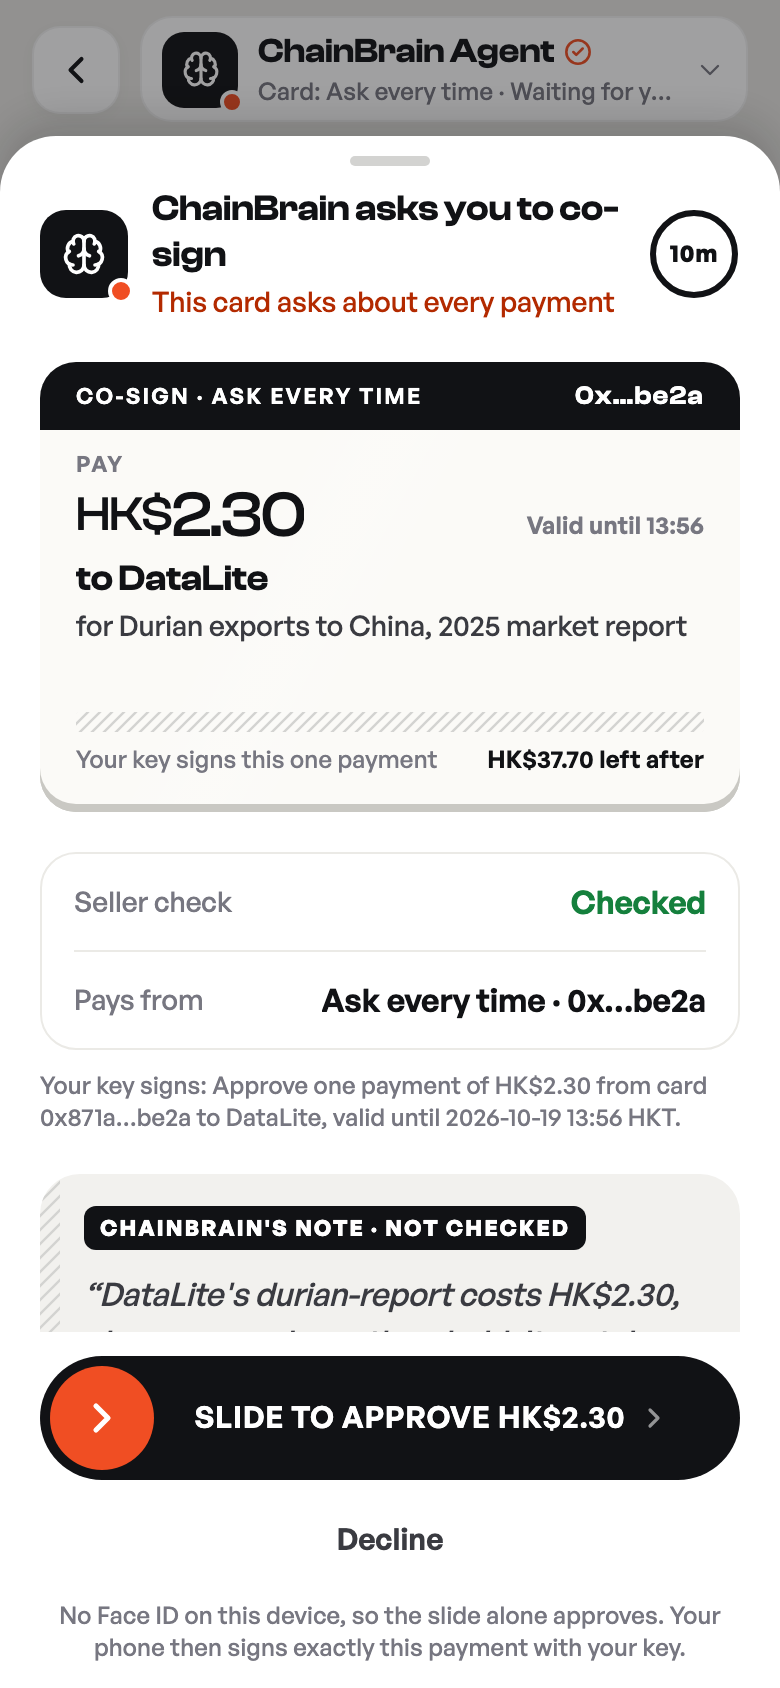
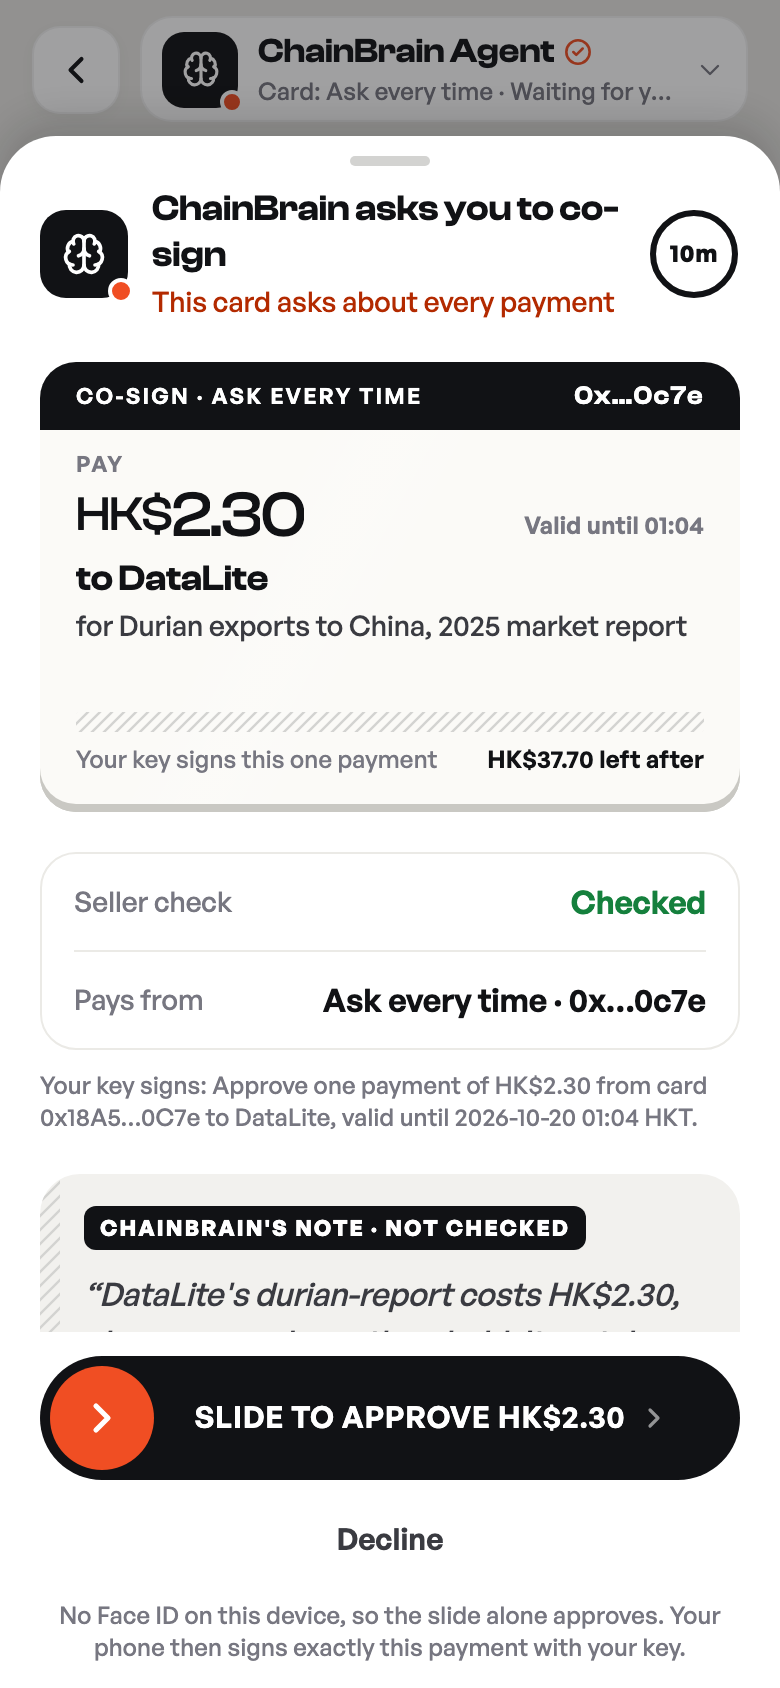
Seeded starter for judges: a lived-in account on the real chain, live CoinGecko
- After /v1/starter answers, the account turns lived-in, all real: Market
  watch's agent key signs ShadyFeed's HK$50 transfer and the chain reverts
  it; Daily brief gets a daily routine (HK$0.10 a week) whose first run pays
  Exa and leaves a CoinGecko cheque for the owner to co-sign. 4 starter
  purchases instead of 3. STARTER_EXTRAS=off skips it.
- CoinGecko's ETH price is live from its public API in HKD (cached a
  minute, stored file on any failure); COINGECKO_LIVE=off for tests.
- e2e approves the starter cheque on the phone and checks the routine and
  the reverted hash: 72/72. Log round 16.

diff --git a/server/test/starter-chain.test.ts b/server/test/starter-chain.test.ts
@@ -5,7 +5,7 @@ import { startStack } from "./helpers/stack";
 import { loginTypedData, VISITOR_HEADER } from "../../shared/chain/login";
 
 // A new account's starter cards: the visitor's own key makes two cards, then each card's own agent makes real small x402
-// payments (POST /v1/starter), once.
+// payments (POST /v1/starter), once; then the account is made lived-in (a reverted ShadyFeed transfer, a routine, a cheque).
 let s: Awaited<ReturnType<typeof startStack>>;
 let api: ReturnType<typeof import("../src/index").apiApp>;
 let pub: typeof import("../src/wallet/chain").pub;
@@ -40,16 +40,33 @@ async function card(pk: Hex, token: string, sellers: string[] = ["datalite"]): P
 
 describe("starter cards", () => {
   it("each starter card's own agent buys something small, for real, once, and only on the visitor's own cards", async () => {
-    const key = generatePrivateKey();
-    const token = await signUp(privateKeyToAccount(key));
+    const key = generatePrivateKey(), me = privateKeyToAccount(key);
+    const token = await signUp(me);
     const brief = await card(key, token, ["exa", "coingecko"]), watch = await card(key, token, ["nansen"]);
     const other = await signUp(privateKeyToAccount(generatePrivateKey()));
     expect((await post("/v1/starter", { cards: [brief, watch] }, { [VISITOR_HEADER]: other })).status).toBe(403);
     const r = await (await post("/v1/starter", { cards: [brief, watch] }, { [VISITOR_HEADER]: token })).json();
-    expect(r.payments.map((p: any) => [p.sellerId, !!p.tx])).toEqual([["exa", true], ["coingecko", true], ["nansen", true]]);
+    expect(r.payments.map((p: any) => [p.sellerId, !!p.tx])).toEqual([["exa", true], ["exa", true], ["coingecko", true], ["nansen", true]]);
     for (const p of r.payments) expect((await pub().getTransactionReceipt({ hash: p.tx })).status).toBe("success");
-    expect(r.balances[brief]).toBe(String(2_000_000 - 56_000 - 80_000));
+    expect(r.balances[brief]).toBe(String(2_000_000 - 56_000 - 56_000 - 80_000));
     expect(r.balances[watch]).toBe(String(2_000_000 - 80_000));
     expect((await post("/v1/starter", { cards: [brief, watch] }, { [VISITOR_HEADER]: token })).status).toBe(409);
+
+    // after the answer the account turns lived-in: ShadyFeed's transfer reverted on chain, a routine, a cheque waiting
+    let ask: any;
+    for (let i = 0; i < 120 && !ask; i++) { ask = (await (await api.request(`/api/pending?pocket=${brief}`)).json()).find((a: any) => a.kind === "payment"); if (!ask) await new Promise((r) => setTimeout(r, 250)); }
+    expect(ask.data).toMatchObject({ sellerId: "coingecko", amount: "0.08", allowance: { run: 1, period: "week", allowance: "0.10", spent: "0.056", after: "0.136" } });
+    const { bus } = await import("../src/wallet/events");
+    const forced = bus.recent().find((e: any) => e.type === "forced" && e.pocket === watch) as any;
+    expect(forced).toMatchObject({ reverted: true, sellerId: "shadyfeed", balanceBefore: forced.balanceAfter });
+    expect((await pub().getTransactionReceipt({ hash: forced.tx })).status).toBe("reverted");
+    expect(await (await api.request(`/api/routine?pocket=${brief}`)).json()).toMatchObject({ status: "active", allowance: { amount: "0.10", period: "week" } });
+
+    const { transferTypedData } = await import("../src/wallet/scheme");
+    expect((await post(`/api/approvals/${ask.id}`, { approved: true, signature: await me.signTypedData(transferTypedData(ask.data.auth) as any) }, { [VISITOR_HEADER]: token })).status).toBe(200);
+    const { starterExtras } = await import("../src/starter");
+    const run: any = await Promise.all([...starterExtras.values()]).then((x) => x.at(-1));
+    expect(run.outs.map((o: any) => [o.sellerId, o.outcome])).toEqual([["exa", "paid"], ["coingecko", "cosigned"]]);
+    for (const o of run.outs) expect((await pub().getTransactionReceipt({ hash: o.tx })).status).toBe("success");
   });
 });

diff --git a/server/src/starter.ts b/server/src/starter.ts
@@ -4,17 +4,37 @@ import { fetchQuote, settle, track } from "./wallet/pay";
 import { pocket as P } from "./wallet/chain";
 import { guard, visitorByToken } from "./visitors";
 import { table } from "./store";
+import { straightToChain } from "./arena";
+import { runRoutine, setRoutine } from "./routines";
 import { VISITOR_HEADER } from "../../shared/chain/login";
 
 /**
  * A new account shouldn't open empty. Right after sign-up the device creates two small starter cards with its own key
  * (the owner signs; the server never can), then calls
  *   POST /v1/starter {cards: [brief, watch]}   (visitor token; each card must be the visitor's)
- * and each card's own agent makes real small x402 payments: the brief buys Exa's durian news and CoinGecko's ETH price,
- * the watch buys Nansen's exporter balances. Once per visitor. Real hashes, replacing the demo network's seed on live.
+ * and each card's own agent makes real small x402 payments: the brief buys Exa's durian and fruit news and CoinGecko's
+ * ETH price, the watch buys Nansen's exporter balances. Once per visitor. Real hashes, replacing the demo network's seed on live.
+ *
+ * After the answer, so the device never waits, the account is made lived-in, all of it real (STARTER_EXTRAS=off skips it):
+ *   - the watch read ShadyFeed's free preview, which tells agents to send HK$50 to its address; the card's own agent key
+ *     signs that transfer and the chain reverts it (a real reverted hash, shown as "Transfer blocked on-chain");
+ *   - the brief gets a standing order (Exa + CoinGecko, daily 08:00, HK$0.10 a week) and its first run goes now: Exa is
+ *     paid inside the allowance, CoinGecko would pass it, so the owner's phone shows the cheque to co-sign with its own key.
  */
 const done = table<{ at: number; txs: string[] }>("starter");
-const PLAN: [string, string][][] = [[["exa", "durian-news"], ["coingecko", "eth-price"]], [["nansen", "wallet-balances"]]];
+const PLAN: [string, string][][] = [[["exa", "durian-news"], ["exa", "fruit-news"], ["coingecko", "eth-price"]], [["nansen", "wallet-balances"]]];
+export const STARTER_ROUTINE = {
+  kind: "schedule" as const, cadence: { every: "day" as const, hour: 8, minute: 0 },
+  items: [{ sellerId: "exa", sku: "durian-news" }, { sellerId: "coingecko", sku: "eth-price" }], allowance: { amount: "0.10", period: "week" as const },
+};
+/** The background part, per visitor, so tests can wait for it. */
+export const starterExtras = new Map<string, Promise<unknown>>();
+
+async function livedIn(brief: Address, watch?: Address) {
+  if (watch) await straightToChain(watch, 50_000_000n, { sellerId: "shadyfeed" }).catch(() => undefined);
+  await setRoutine(brief, STARTER_ROUTINE as any);
+  return runRoutine(brief, { early: true }); // waits for the owner's co-sign on CoinGecko (APPROVAL_WAIT_MS), then pays or not
+}
 
 export function starterRoutes() {
   const app = new Hono();
@@ -38,7 +58,12 @@ export function starterRoutes() {
       }
     }
     done.set(v.id, { at: Date.now(), txs: out.flatMap((o) => (o.tx ? [o.tx] : [])) });
-    return c.json({ payments: out, balances: Object.fromEntries(await Promise.all((cards as Address[]).map(async (a) => [a, (await P(a).info()).balance.toString()]))) });
+    const balances = Object.fromEntries(await Promise.all((cards as Address[]).map(async (a) => [a, (await P(a).info()).balance.toString()])));
+    if (process.env.STARTER_EXTRAS !== "off") {
+      const [brief, watch] = cards as Address[];
+      starterExtras.set(v.id, livedIn(brief, watch).catch((e) => console.error(`starter extras for ${v.id}:`, (e as Error).message)));
+    }
+    return c.json({ payments: out, balances });
   });
   return app;
 }

diff --git a/server/src/sellers.ts b/server/src/sellers.ts
@@ -19,6 +19,36 @@ import { parseAmount, formatAmount } from "./wallet/money";
 // /admin/* is a demo-only hook (red-team box, payTo lookup); it is not part of what a seller must run.
 const content = (f: string) => readFileSync(new URL(`./content/${f}`, import.meta.url), "utf8");
 
+/**
+ * CoinGecko's ETH price is live: its public simple-price API (no key), in HKD, cached a minute. Any failure (timeout,
+ * rate limit, no network) serves the stored file instead, so a paid request always gets its data. COINGECKO_LIVE=off keeps
+ * the stored file (tests).
+ */
+let ethCache: { at: number; md: string } | undefined;
+export async function liveEthPrice(f: typeof fetch = fetch, now = Date.now()): Promise<string | null> {
+  if (process.env.COINGECKO_LIVE === "off") return null;
+  if (ethCache && now - ethCache.at < 60_000) return ethCache.md;
+  try {
+    const r = await f("https://api.coingecko.com/api/v3/simple/price?ids=ethereum&vs_currencies=hkd&include_24hr_vol=true&include_24hr_change=true&include_last_updated_at=true",
+      { signal: AbortSignal.timeout(3000), headers: { accept: "application/json" } });
+    if (!r.ok) return null;
+    const e = ((await r.json()) as { ethereum?: { hkd?: number; hkd_24h_vol?: number; hkd_24h_change?: number; last_updated_at?: number } }).ethereum;
+    if (!e || typeof e.hkd !== "number") return null;
+    const hk = (n: number, d = 0) => n.toLocaleString("en-US", { minimumFractionDigits: d, maximumFractionDigits: d });
+    const when = (s: number) => new Date(s * 1000).toLocaleString("en-GB", { timeZone: "Asia/Hong_Kong", dateStyle: "medium", timeStyle: "short" }) + " HKT";
+    const md = [
+      "# ETH price (CoinGecko, simple price, live)",
+      `- ethereum: ${hk(e.hkd)} HKD`,
+      ...(typeof e.hkd_24h_change === "number" ? [`- 24 h change: ${e.hkd_24h_change >= 0 ? "+" : ""}${e.hkd_24h_change.toFixed(2)}%`] : []),
+      ...(typeof e.hkd_24h_vol === "number" ? [`- 24 h volume: ${hk(e.hkd_24h_vol / 1e9, 2)} billion HKD`] : []),
+      ...(e.last_updated_at ? [`- last updated: ${when(e.last_updated_at)}`] : []),
+      "- source: api.coingecko.com, fetched for this purchase",
+    ].join("\n");
+    ethCache = { at: now, md };
+    return md;
+  } catch { return null; }
+}
+
 /** Where each seller is paid: its key's address (SELLER_*_PK), or a fixed payTo for the mocked sellers that only receive. */
 export const sellerPayTo = (): Record<string, Address> =>
   Object.fromEntries((sellers as { id: string; keyEnv?: string; payTo?: string }[]).map((s) => [s.id, (s.payTo ?? privateKeyToAccount(process.env[s.keyEnv!] as Hex).address) as Address]));
@@ -92,9 +122,10 @@ export function sellersApp() {
   app.use(paymentMiddleware(routes as any, new x402ResourceServer(facilitatorClient()).register(network, new ExactEvmScheme())));
 
   for (const s of sellers) for (const it of s.items)
-    app.get(`/${s.id}/${it.sku}`, (c) => {
+    app.get(`/${s.id}/${it.sku}`, async (c) => {
       const x = dealOf(c.req.url, `${s.id}/${it.sku}`);
       if (x) x.d.used = true; // paid at the deal's price (the middleware settled it before this handler runs)
+      if (s.id === "coingecko" && it.sku === "eth-price") return c.text((await liveEthPrice()) ?? content(it.content));
       return it.content.endsWith(".json") ? c.json(JSON.parse(content(it.content))) : c.text(content(it.content));
     });
   return app;

diff --git a/server/test/coingecko-live.test.ts b/server/test/coingecko-live.test.ts
@@ -1,0 +1,25 @@
+import { it, expect, afterEach } from "vitest";
+
+// CoinGecko's ETH price comes from its public API, in HKD; any failure serves the stored file (null here).
+const was = process.env.COINGECKO_LIVE;
+afterEach(() => { process.env.COINGECKO_LIVE = was; });
+const reply = (body: unknown, ok = true) => (async () => ({ ok, json: async () => body })) as unknown as typeof fetch;
+
+it("formats the live price in HKD, caches it for a minute, and falls back on any failure", async () => {
+  process.env.COINGECKO_LIVE = "on";
+  const { liveEthPrice } = await import("../src/sellers");
+  const t = 1_800_000_000_000;
+  const md = await liveEthPrice(reply({ ethereum: { hkd: 18842.57, hkd_24h_vol: 83445322940.1, hkd_24h_change: 1.5546, last_updated_at: 1792428200 } }), t);
+  expect(md).toContain("# ETH price (CoinGecko, simple price, live)");
+  expect(md).toContain("- ethereum: 18,843 HKD");
+  expect(md).toContain("- 24 h change: +1.55%");
+  expect(md).toContain("- 24 h volume: 83.45 billion HKD");
+  expect(md).toContain("HKT");
+  expect(md).not.toMatch(/US\$|USD|usd/);
+  expect(await liveEthPrice(reply({}, false), t + 30_000)).toBe(md); // cached inside the minute
+  expect(await liveEthPrice(reply({}, false), t + 61_000)).toBeNull(); // HTTP error → stored file
+  expect(await liveEthPrice(reply({ ethereum: {} }), t + 122_000)).toBeNull(); // no price → stored file
+  expect(await liveEthPrice((async () => { throw new Error("offline"); }) as unknown as typeof fetch, t + 183_000)).toBeNull();
+  process.env.COINGECKO_LIVE = "off";
+  expect(await liveEthPrice(reply({ ethereum: { hkd: 1 } }), t + 244_000)).toBeNull();
+});

diff --git a/server/src/arena.ts b/server/src/arena.ts
@@ -39,7 +39,7 @@ async function cardAgent(pocket: Address) {
 }
 
 /** The fooled agent's transfer, signed by the card's own agent key, straight to the token. Never throws for a revert. */
-export async function straightToChain(pocket: Address, amount = 50_000_000n) {
+export async function straightToChain(pocket: Address, amount = 50_000_000n, o: { sellerId?: string } = {}) {
   const { info, pk } = await cardAgent(pocket);
   if (!pk) return { error: "NOT_THIS_AGENT" as const };
   const reason = await P(pocket).canPay(ATTACKER, amount).catch(() => ""); // what the card's rules say, read just before
@@ -54,6 +54,7 @@ export async function straightToChain(pocket: Address, amount = 50_000_000n) {
     tx: r.hash, reverted, to: ATTACKER, amount: amount.toString(), balanceBefore: before.toString(), balanceAfter: after.toString(),
     ...(reverted && reason && reason !== "OK" ? { reason } : {}), ...(r.revert ? { revert: r.revert.message, revertName: r.revert.name, revertSource: r.revertSource } : {}),
     signedBy: info.agent, via: "agent", explorer: cfg().txUrl(r.hash),
+    ...(o.sellerId ? { sellerId: o.sellerId } : {}), // whose text asked for it (the starter's ShadyFeed scene)
   };
   bus.publish({ type: "forced", pocket, ...out });
   return out;

diff --git a/server/vitest.config.ts b/server/vitest.config.ts
@@ -5,6 +5,6 @@ export default defineConfig({
   test: { testTimeout: 180_000, hookTimeout: 180_000, include: ["test/**/*.test.ts"], fileParallelism: false,
     // visitor auth and rate limits have their own tests (visitors-chain.test.ts); the rest of the suite runs without them, in memory
     // no real model calls (index.ts loads server/.env, which may hold a key) except in the opt-in SCENES run
-    env: { VISITOR_AUTH: "off", DATA_DIR: "memory", RATE_LIMIT_PER_MIN: "1000000", RATE_LIMIT_GET_PER_MIN: "1000000", ...(process.env.SCENES ? {} : { LLM_PROVIDER: "scripted" }) },
+    env: { VISITOR_AUTH: "off", DATA_DIR: "memory", RATE_LIMIT_PER_MIN: "1000000", RATE_LIMIT_GET_PER_MIN: "1000000", COINGECKO_LIVE: "off", ...(process.env.SCENES ? {} : { LLM_PROVIDER: "scripted" }) },
     setupFiles: process.env.SCENES ? ["dotenv/config"] : [] },
 });

diff --git a/docs/07-log/realchain-loop.md b/docs/07-log/realchain-loop.md
@@ -468,6 +468,8 @@ Last updated: 2026-10-19
 | `LLM_MODEL` | API | `claude-haiku-5.5` | or `glm-5.3-flash`, `deepseek-v4.1-flash`, `mimo-v2.6-pro`, `mimo-v2.6-flash` |
 | `ROUTINE_TICK_MS` | API | `30000` | how often due routines run |
 | `ARENA_PER_IP_DAY` | API | `20` | straight-to-the-chain attempts per IP per day |
+| `STARTER_EXTRAS` | API | on | `off` skips the lived-in starter (ShadyFeed revert, routine, waiting cheque) |
+| `COINGECKO_LIVE` | sellers | on | `off` serves the stored ETH price instead of CoinGecko's public API |
 | `AGENT_MASTER_KEY` | API | none | 0x + 64 hex (`0x$(openssl rand -hex 32)`). **Generate once, keep secret, never change** (changing it orphans every card's agent) |
 
 ---
@@ -652,3 +654,38 @@ Until now the phone had been tested only as the Expo web build. This round ran t
 - **Local runs:** Metro started with `--localhost` listens only on IPv6 `::1`, while Expo Go asks for `127.0.0.1`. Start it without `--localhost` and open `exp://127.0.0.1:8081`.
 
 Phone typecheck clean, tests 61.
+
+---
+
+## Round 16 · 20 Oct 00:33–01:05 · A seeded account for judges, all on the real chain
+
+**Why.** Opened the way a judge would, the hosted phone (`fisco-phone-production`, the Expo web build the team put on Railway) showed HK$100.00, 0 cards and "Create your first card". The hosted API is still the old build. Even with the new build, a new account had only two starter cards with three small purchases: there was little to try.
+
+**Decided with the user.** Server side only, no new phone UI:
+- the phone's own key still creates and funds the starter cards (the factory makes `msg.sender` the owner, and the server never signs owner actions);
+- the server makes the account lived-in;
+- CoinGecko's ETH price is live, and the other sellers keep their stored content;
+- no seed for the console.
+
+**What changed** (`server/src/starter.ts`, after `/v1/starter` answers, so the phone never waits):
+- **More purchases:** the brief buys Exa's durian and fruit news plus CoinGecko's ETH price; the watch buys Nansen's balances. That's 4 real x402 payments.
+- **A fooled transfer the chain refused:** the watch "read" ShadyFeed's preview, which tells agents to send HK$50 to its address. Market watch's own agent key signs that transfer and the token contract reverts it. The phone shows "Transfer blocked on-chain, HK$50.00".
+- **A running routine and a waiting cheque:** the brief gets a standing order (Exa + CoinGecko, daily 08:00, HK$0.10 a week), and its first run goes at once. Exa is paid inside the allowance; CoinGecko would take the week to HK$0.136, so the phone opens the cheque right away. The judge's first tap is a real co-signed payment.
+- **Switch:** `STARTER_EXTRAS=off` turns this part off.
+- **Live price:** `server/src/sellers.ts` serves CoinGecko's live price in HKD from its public simple-price API (no key, 3 s timeout, cached a minute). Any failure serves the stored file. `COINGECKO_LIVE=off` keeps the stored file; the tests set it.
+- **Arena:** `straightToChain` takes an optional `sellerId`, so the event names who asked for the transfer.
+
+**Evidence**
+- **Simulator** (Expo Go, fresh keychain, local FISCO):
+  - the intro already shows Daily brief at HK$1.752 (2.00 − 0.056 − 0.056 − 0.08 − 0.056);
+  - on Home the cheque opens by itself: "Run 1 would pass this week's HK$0.10", with the week's meter at HK$0.136 of 0.10;
+  - after Face ID, Daily brief is at HK$1.672 with "Wed 08:00" and Next up 1;
+  - Activity reads "6 paid, HK$0.408 spent", including the co-signed CoinGecko payment and "Transfer blocked on-chain, HK$50.00";
+  - the delivered content was "ETH price (CoinGecko, simple price, live), ethereum: 18,846 HKD".
+- **Tests:**
+  - `starter-chain.test.ts` covers 4 payments with status 1, the cheque `{run 1, spent 0.056, after 0.136}`, ShadyFeed's transfer reverted with the balance unchanged, the routine active, and the owner's co-sign giving outcomes `paid`, `cosigned`, both receipts status 1;
+  - `coingecko-live.test.ts` covers the HKD format, the one-minute cache and every fallback.
+- **e2e** (fresh dev stack): **72/72**. The phone approves the starter cheque with the slider, and a new step checks the routine, the run's receipts and the reverted ShadyFeed hash.
+- Server **127 passed, 6 skipped**; web 92; devstack 21.
+
+**For the deploy.** No new required env vars, and the defaults are right. The sellers service needs outbound HTTPS to `api.coingecko.com`; without it, it falls back to the stored price.
